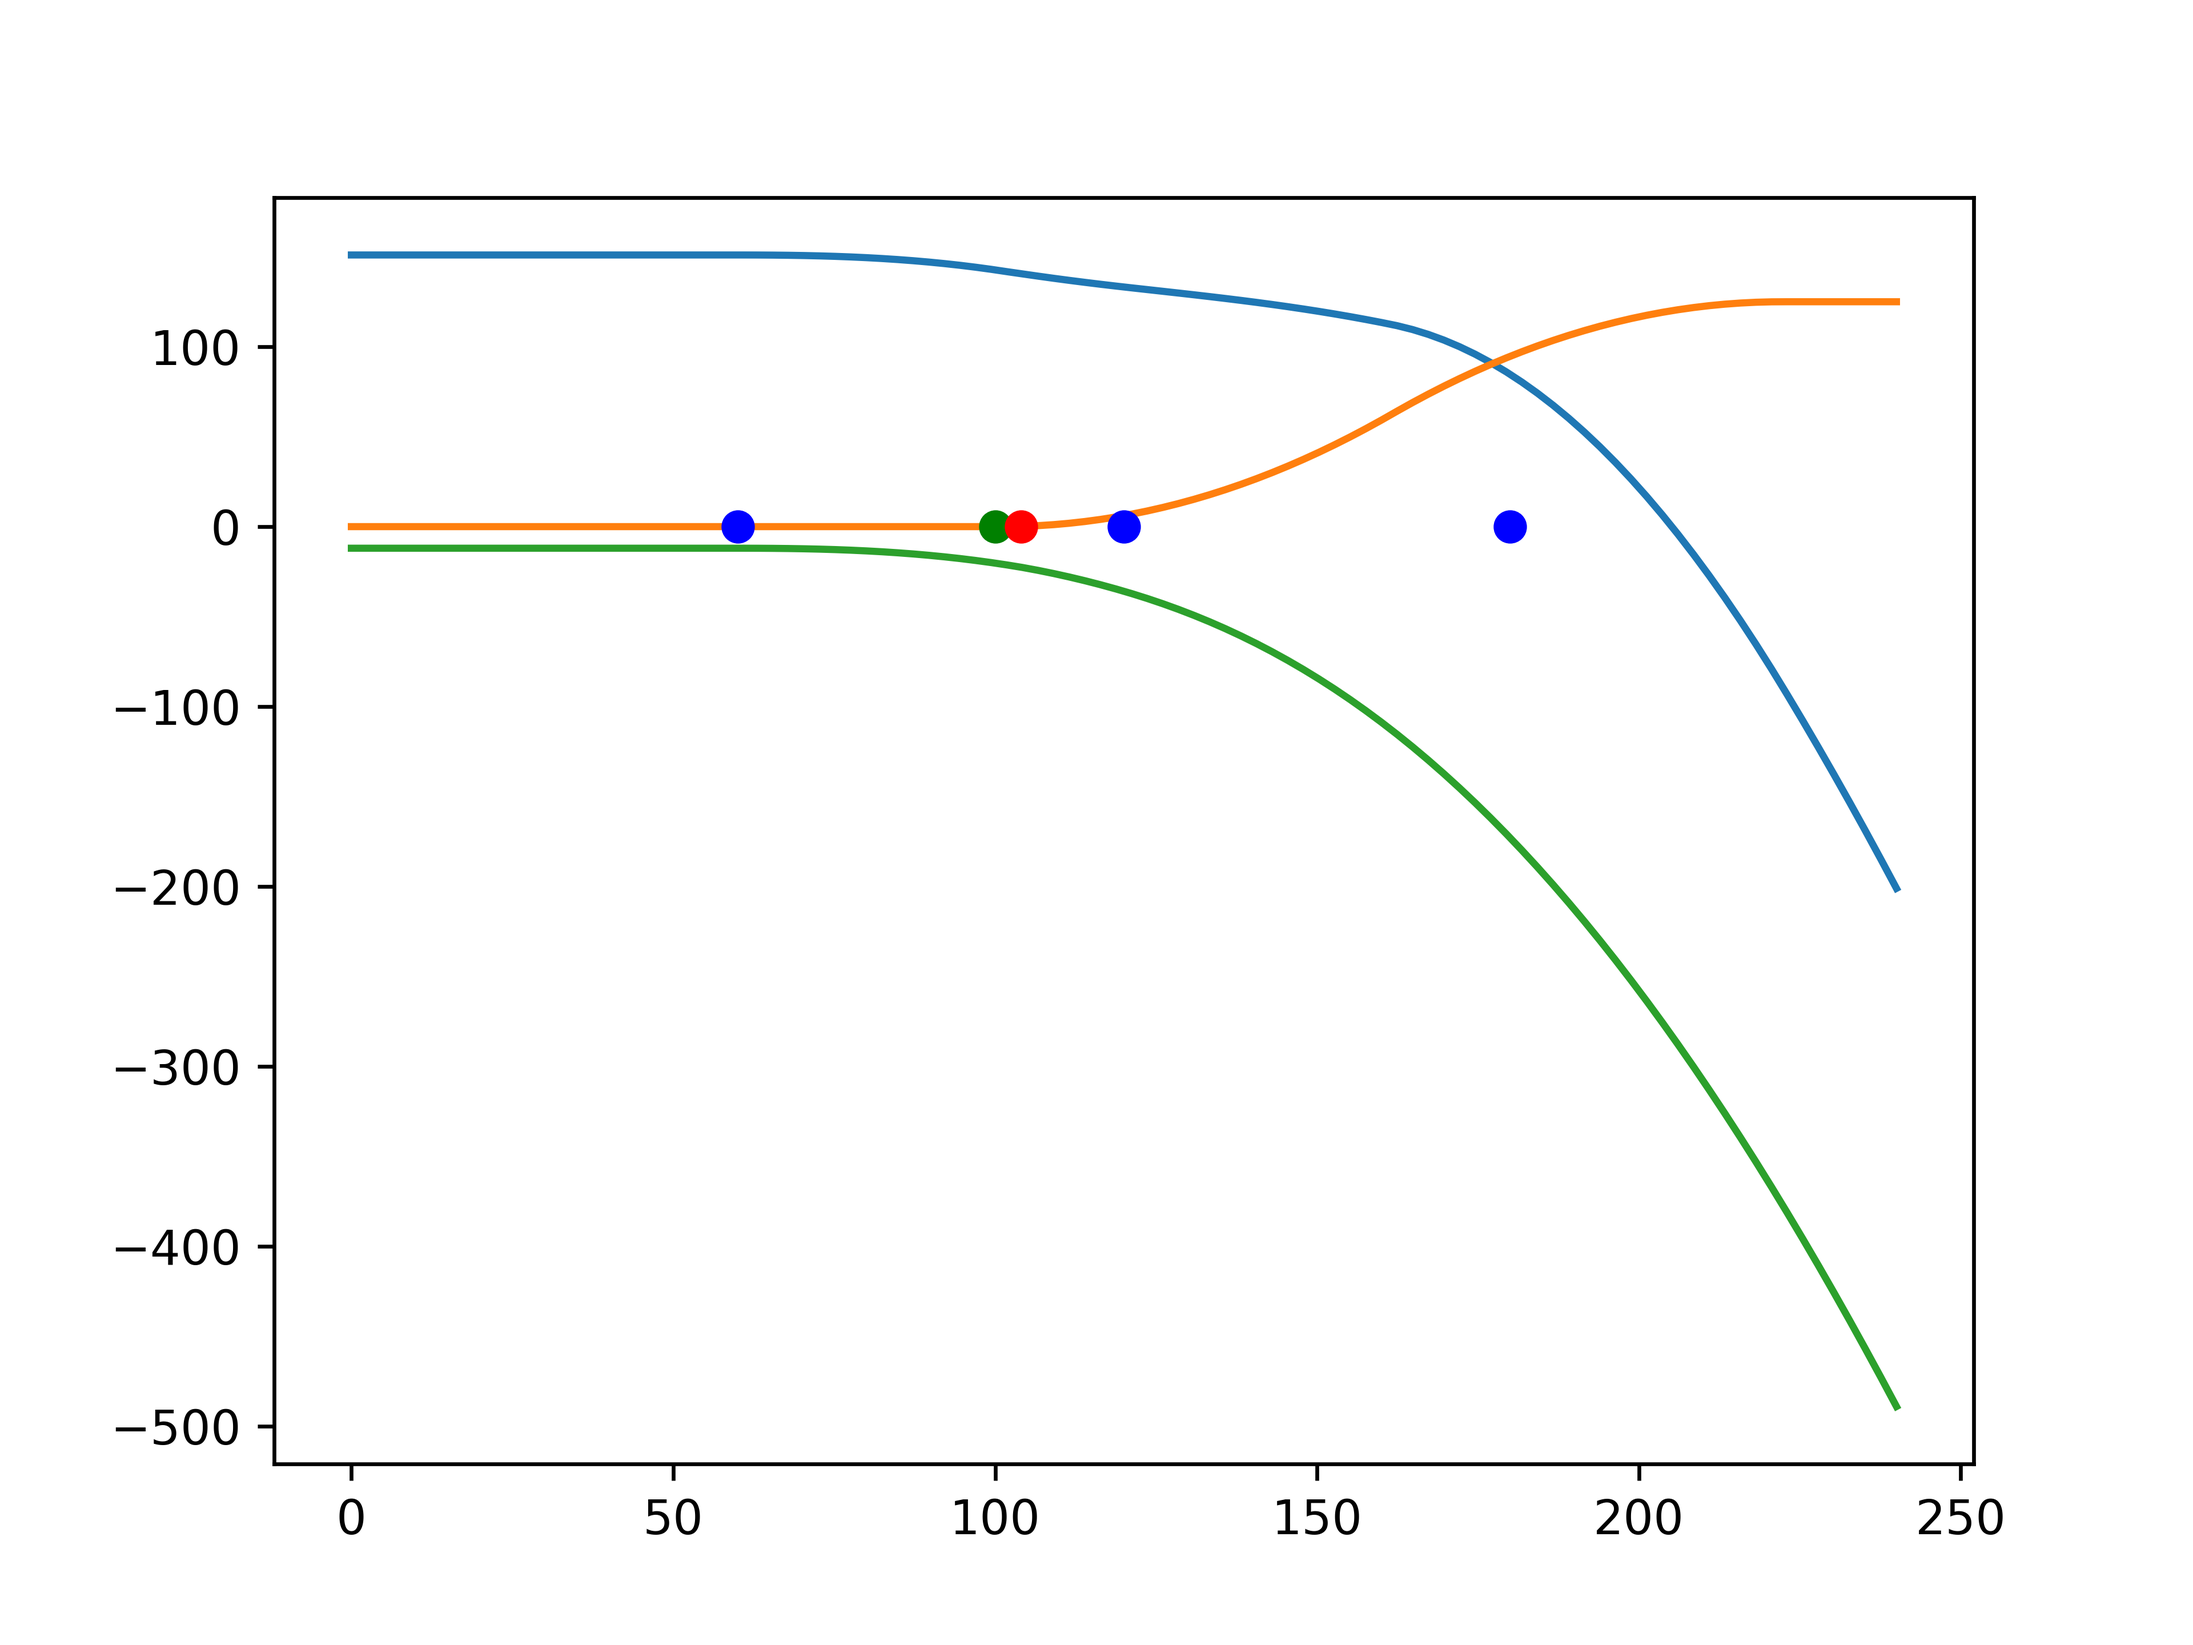
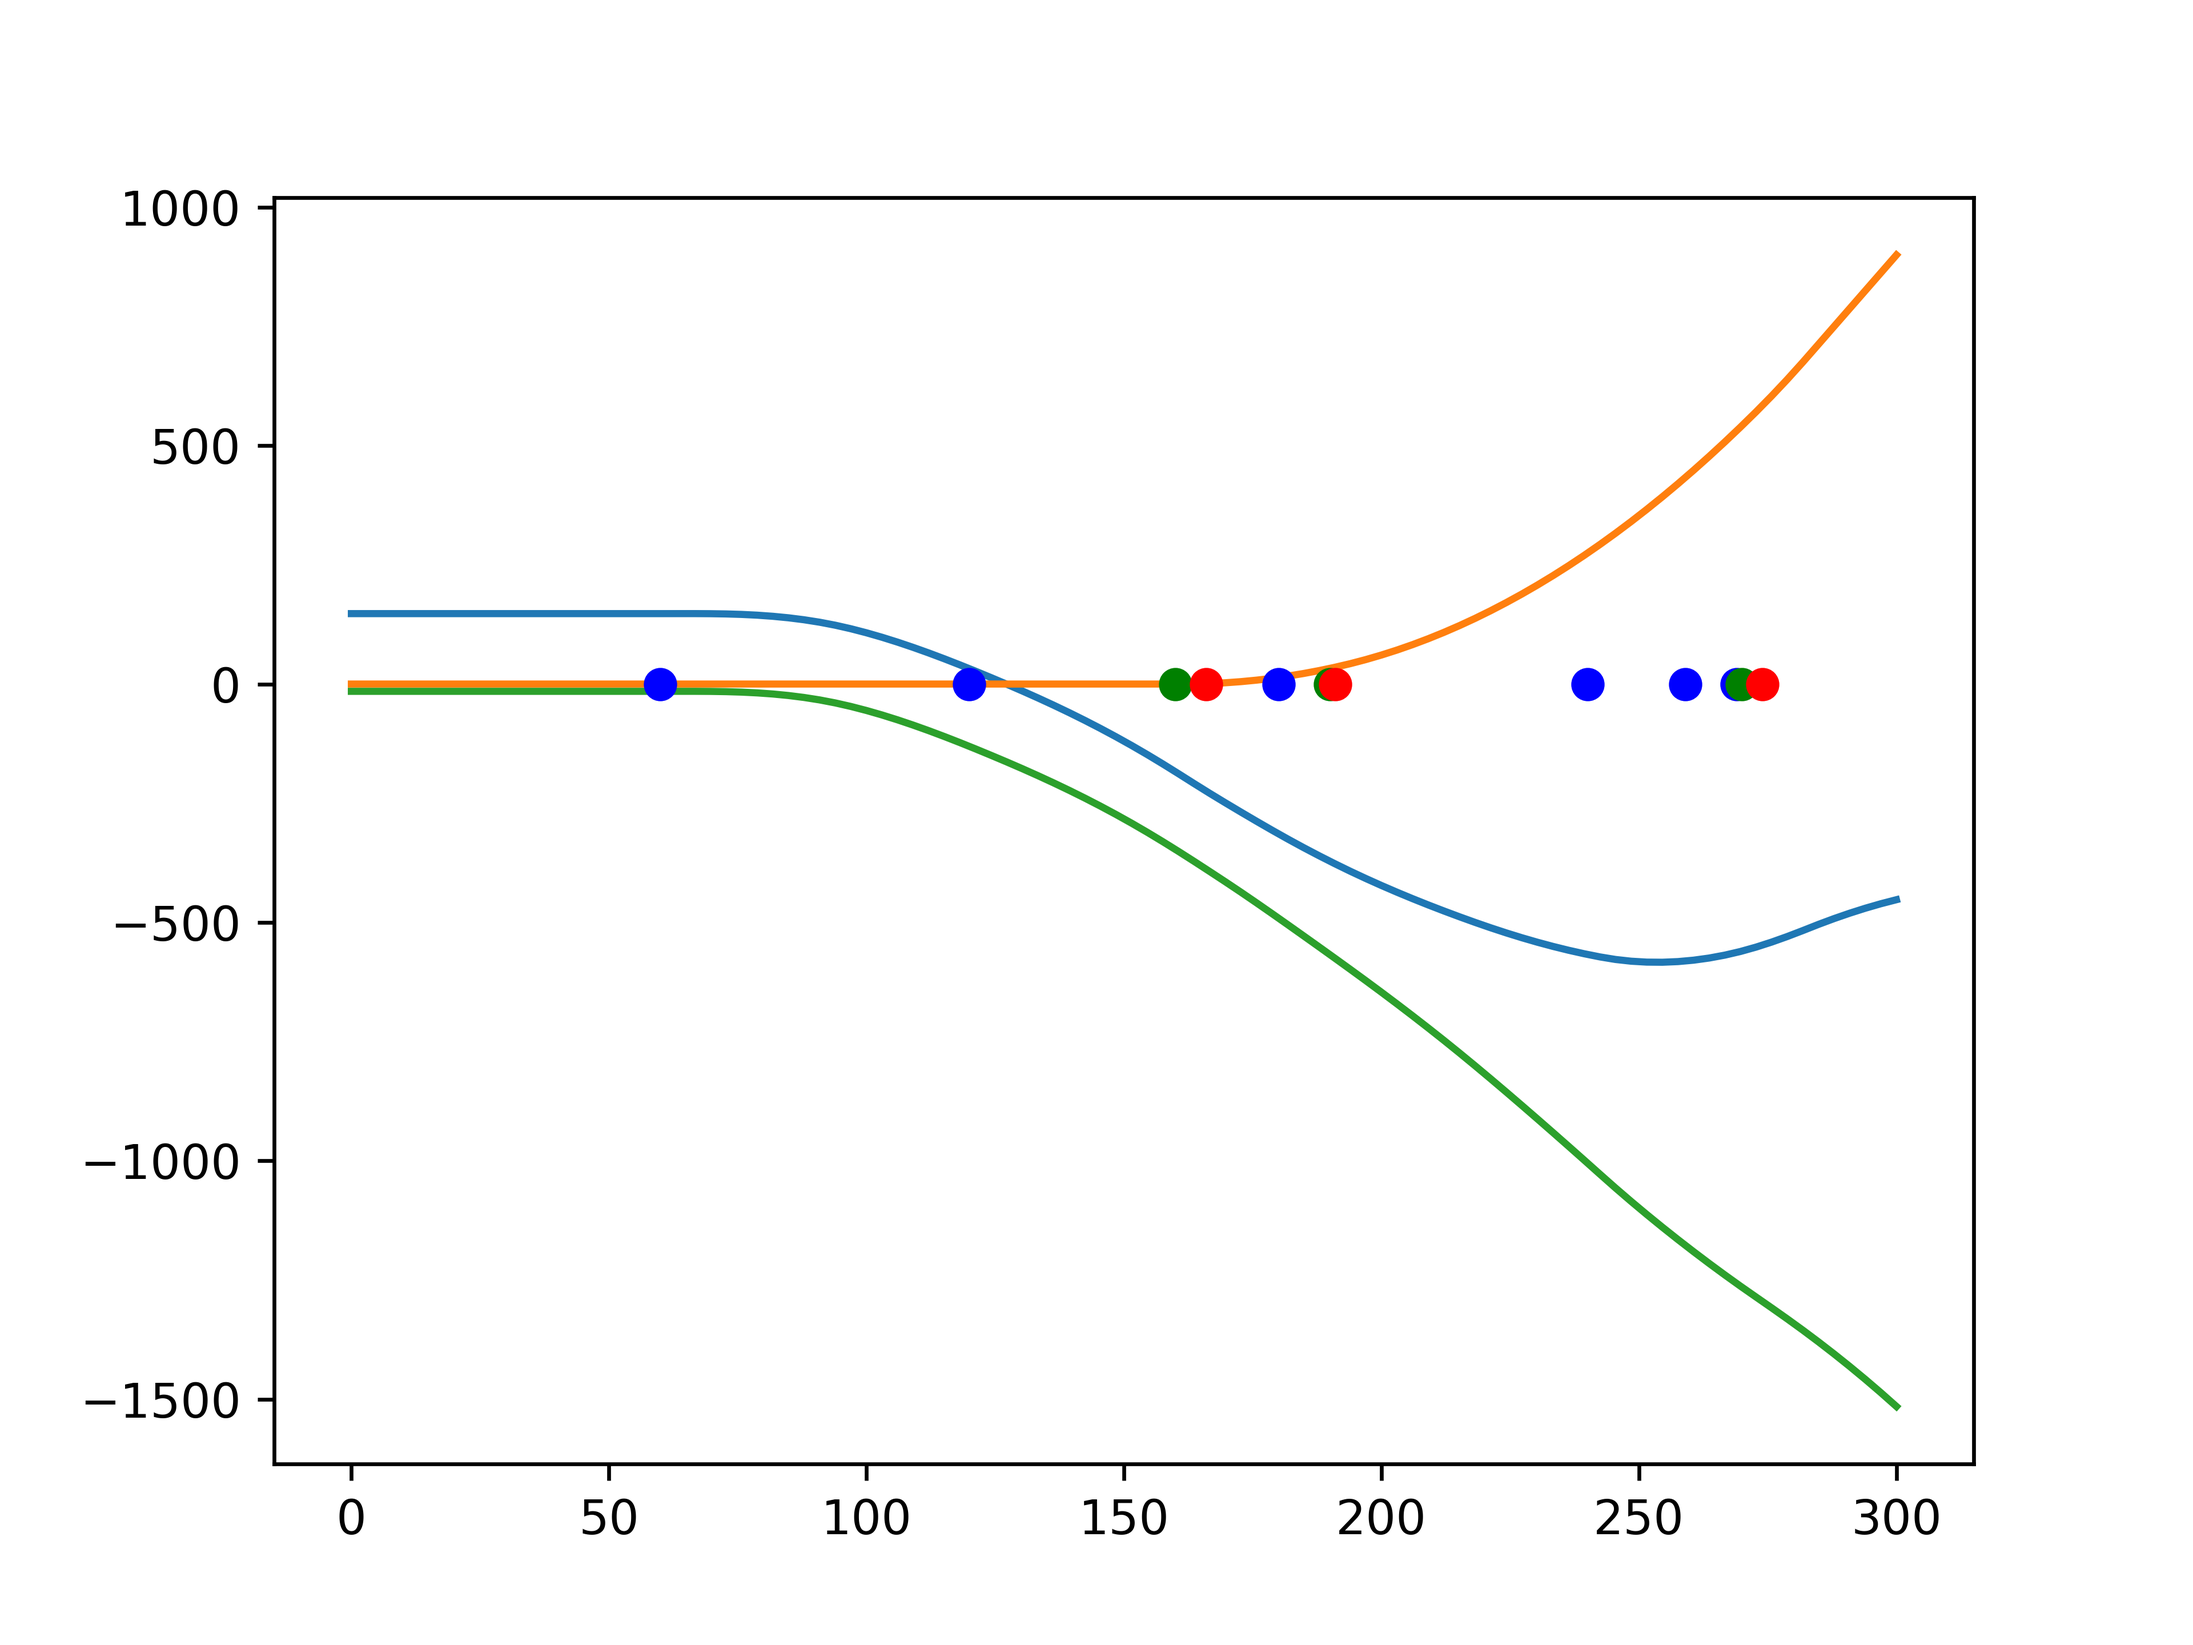
use python rolling window in docker

diff --git a/Python/main.py b/Python/main.py
@@ -1,9 +1,21 @@
+import pandas
+
+from autotune_prep import writeJson
 from check import checkCurrent
 from Classes import Event, UserData
 from readData import read_data
 from predict import calculateBG
+from rolling import predictRolling, predictRollingCached
+import json
+import logging
+
+logging.basicConfig(level=logging.info)
+logger = logging.getLogger(__name__)
 
 filename = "../../Data/data0318.csv"
+filename17 = "../../Data/data2017.csv"
+filename1217 = "../../Data/data1217.csv"
+filenameDocker = "/t1d/data/data1217.csv"
 
 def mainplt():
     uevent = [Event.createBolus(time=10, units=3.8),
@@ -14,11 +26,43 @@ def mainplt():
 
     calculateBG(uevent, udata, 500)
 
-def main():
+def mainPredict():
     data = read_data(filename)
     data = data[data['date'] == "08.03.18"]
-    udata = UserData(bginitial=0, cratio=0.08, idur=4, inputeeffect=None, sensf=5, simlength=4, stats=None)
+    udata = UserData(bginitial=0, cratio=0.05, idur=3, inputeeffect=None, sensf=15, simlength=5, stats=None)
     res = checkCurrent(data, udata)
 
+
+def mainFast():
+    # get rolling prediction window
+    logger.info("Start Main")
+    logger.debug("Load Data")
+    data = read_data(filenameDocker)
+    logger.debug("Loaded Data with shape: " + str(data.shape))
+    udata = UserData(bginitial=0, cratio=0.08, idur=4, inputeeffect=None, sensf=5, simlength=4, stats=None)
+    #res = predictRolling(data, udata)
+    res = predictRollingCached(data, udata)
+
+    res_series = pandas.Series(res)
+    mean = res_series.mean(skipna=True)
+    median = res_series.median(skipna=True)
+    numberofna = res_series.isna().sum()
+    jsonobject = {"mean": int(mean), "median": int(median), "number of NA": int(numberofna), "data": res}
+    file = open('./result.json', 'w')
+    file.write(json.dumps(jsonobject))
+    logger.info("finished")
+
+def main():
+    # get rolling prediction window
+    logger.info("Start Main")
+    logger.debug("Load Data")
+    data = read_data(filename17)
+    logger.debug("Loaded Data with shape: " + str(data.shape))
+    udata = UserData(bginitial=0, cratio=0.08, idur=4, inputeeffect=None, sensf=5, simlength=4, stats=None)
+    res = predictRolling(data, udata)
+
+
+    logger.info("finished")
+
 if __name__ == '__main__':
-    main()
+    mainFast()

diff --git a/Python/check.py b/Python/check.py
@@ -7,13 +7,31 @@ from Classes import UserData
 from predict import calculateBG
 from matplotlib import pyplot as plt
 
-timeFormat = "%d.%m.%y,%H:%M"
+timeFormat = "%d.%m.%y,%H:%M%z"
+timeZone = "+0100"
+
+def checkWindow(data, udata, startTime):
+    events = extractor.getEvents(data)
+    converted = events.apply(lambda event: convertTimes(event, startTime))
+    df = pandas.DataFrame([vars(e) for e in converted])
+    udata.bginitial = data['cgmValue'].values[0]
+
+    bg = calculateBG(df, udata, 100)
+
+    simbg = bg[0]
+    values = data[data['cgmValue'].notnull()]['cgmValue'].values
+
+    #print(simbg[len(simbg) - 1])
+    return simbg[len(simbg) - 1] - values[len(values) - 1]
+
+
+
 
 def checkCurrent(data, udata):
 
     events = extractor.getEvents(data)
 
-    converted = events.apply(lambda event: convertTimes(event, "08.03.18,18:00"))
+    converted = events.apply(lambda event: convertTimes(event, "08.03.18,08:00"))
     df = pandas.DataFrame([vars(e) for e in converted])
 
     df = df[df.time > 0]
@@ -51,8 +69,12 @@ def checkCurrent(data, udata):
 
 
 def convertTimes(event, start):
-    startTime = datetime.strptime(start, timeFormat)
-    eventTime = datetime.strptime(event.time, timeFormat)
+    if isinstance(start, datetime):
+        startTime = start
+    else:
+        startTime = datetime.strptime(start + timeZone, timeFormat)
+
+    eventTime = datetime.strptime(event.time + timeZone, timeFormat)
     timeDifference = eventTime - startTime
     if eventTime < startTime:
         timeDifference = startTime - eventTime
@@ -60,12 +82,12 @@ def convertTimes(event, start):
     else:
         event.time = timeDifference.seconds / 60
     if event.etype == "tempbasal":
-        t1 = datetime.strptime(event.t1, timeFormat)
+        t1 = datetime.strptime(event.t1 + timeZone, timeFormat)
         event.t1 = event.time
         #timeDifference = eventTime - t1
         #event.t1 = timeDifference.seconds
         #t2 = datetime.strptime(event.t2, timeFormat)
         #timeDifference = eventTime - t2
-        event.t2 = event.t1 + 2 * 60 # TODO better estimate
+        event.t2 = event.t1 + 30 # TODO better estimate
     #print(event.time, event.t1, event.t2)
     return event

diff --git a/Python/rolling.py b/Python/rolling.py
@@ -1,0 +1,60 @@
+import pandas
+import logging
+from datetime import datetime, timedelta
+from autotune_prep import convertTime
+from check import checkWindow
+
+logging.basicConfig(level=logging.INFO)
+logger = logging.getLogger(__name__)
+
+filename = "../../Data/data1217.csv"
+def getDateTime(row):
+    return convertTime(row.date + ',' + row.time)
+
+
+def predictWindow(window):
+    print(window.shape)
+    return 1
+
+
+def predictRolling(inputData, userData):
+    # user rolling window to get 5 hours of data
+    logger.debug("convert data to dataFrame")
+    data = pandas.DataFrame(inputData)
+    logger.debug("data frame ")
+    data["datetime"] = data.apply(lambda row: getDateTime(row), axis=1)
+    data = data.set_index('datetime')
+    # make sample size smaller
+    data = data.loc[data.index > datetime(year=2017,month=12,day=15)]
+
+    # user rolling window
+    rolling = data.rolling('5h')
+    rolling.apply(lambda window: predictWindow(window))
+
+
+def rolling(data, delta, steps, udata):
+    startTime = data.index[0]
+    startTime = startTime.replace(minute= startTime.minute // int((steps.seconds / 60)))
+    endTime = data.index[len(data)-1]
+    results = []
+    while startTime < endTime - delta:
+        subset = data.loc[startTime <= data.index]
+        subset = subset.loc[startTime + delta > subset.index]
+
+        results.append(checkWindow(subset, udata, startTime))
+
+        startTime += steps
+    return results
+def predictRollingCached(inputData, userData):
+        # user rolling window to get 5 hours of data
+        logger.debug("convert data to dataFrame")
+        data = pandas.DataFrame(inputData)
+        logger.debug("data frame ")
+        data["datetime"] = data.apply(lambda row: getDateTime(row), axis=1)
+        data = data.set_index('datetime')
+        logger.debug(data)
+        # make sample size smaller
+        # user rolling window
+        return rolling(data, timedelta(hours=5), timedelta(minutes=15), userData)
+
+

diff --git a/Python/extractor.py b/Python/extractor.py
@@ -4,20 +4,29 @@ from matplotlib import pyplot as plt
 def getEvents(data):
 
     basal = data[data['basalValue'].notnull()]
-    basalEvents = basal.apply(
-        lambda event:  Event.createTemp(time=event['date']+','+event['time'], dbdt=event['basalValue'], t1=event['date']+','+event['time'], t2=event['date']+','+event['time']), axis=1)
+    if basal.empty:
+        basalEvents = []
+    else:
+        basalEvents = basal.apply(
+            lambda event:  Event.createTemp(time=event['date']+','+event['time'], dbdt=event['basalValue'], t1=event['date']+','+event['time'], t2=event['date']+','+event['time']), axis=1)
 
     #basalEvents.apply(lambda event: event.toString(), 1)
 
     bolus = data[data['bolusValue'].notnull()]
-    bolusEvents = bolus.apply(
-        lambda event: Event.createBolus(time=event['date']+','+event['time'], units=event['bolusValue']), axis=1)
+    if bolus.empty:
+        bolusEvents = []
+    else:
+        bolusEvents = bolus.apply(
+            lambda event: Event.createBolus(time=event['date']+','+event['time'], units=event['bolusValue']), axis=1)
 
     #bolusEvents.apply(lambda event: event.toString(), 1)
 
     meal = data[data['mealValue'].notnull()]
-    mealEvents = meal.apply(
-        lambda event: Event.createCarb(time=event['date']+','+event['time'], grams=event['mealValue'], ctype=120), axis=1) # TODO Carbtype
+    if meal.empty:
+        mealEvents = []
+    else:
+        mealEvents = meal.apply(
+            lambda event: Event.createCarb(time=event['date']+','+event['time'], grams=event['mealValue'], ctype=4*60), axis=1) # TODO Carbtype
 
     #mealEvents.apply(lambda event: event.toString(), 1)
 

diff --git a/Python/predict.py b/Python/predict.py
@@ -78,7 +78,6 @@ def calculateBG(uevent, udata, n):
 
     simt = udata.simlength * 60
     dt = simt / n
-    print("dt", dt)
     for j in range(0, len(uevent)):
         if uevent.etype.values[j] != "":
             for i in range(0, n):

diff --git a/README.md b/README.md
@@ -7,5 +7,15 @@
 ## Run Docker image
 `docker run --rm -v <absolute path to ./Autotune/data >:/autotune/data autotune:latest`
 
+
 It depends on files in /data/Input and creates a file output file `autotune-result.json`
+
+# Run Prediction
+### 
+
+## Build Docker image
+`docker build --rm -f "Python/Dockerfile" -t t1d:latest Python`
+
+## Run Docker image
+`docker run --rm -v <path to ./Python>:/t1d -v <path to directory with input data>:/t1d/data t1d:latest`
 
